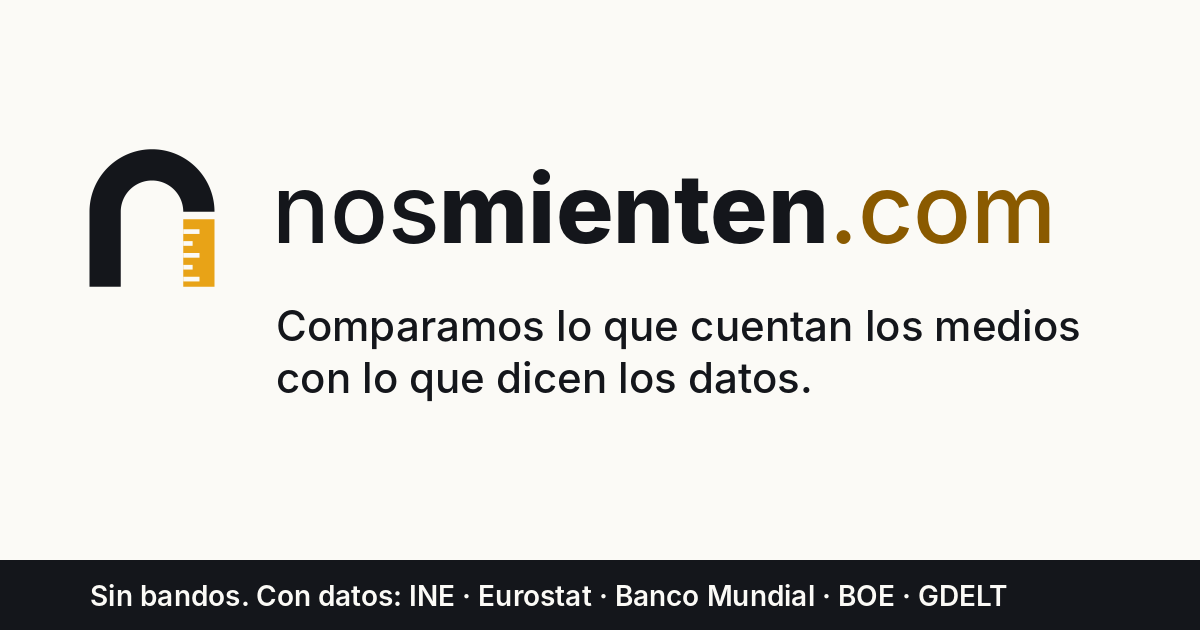
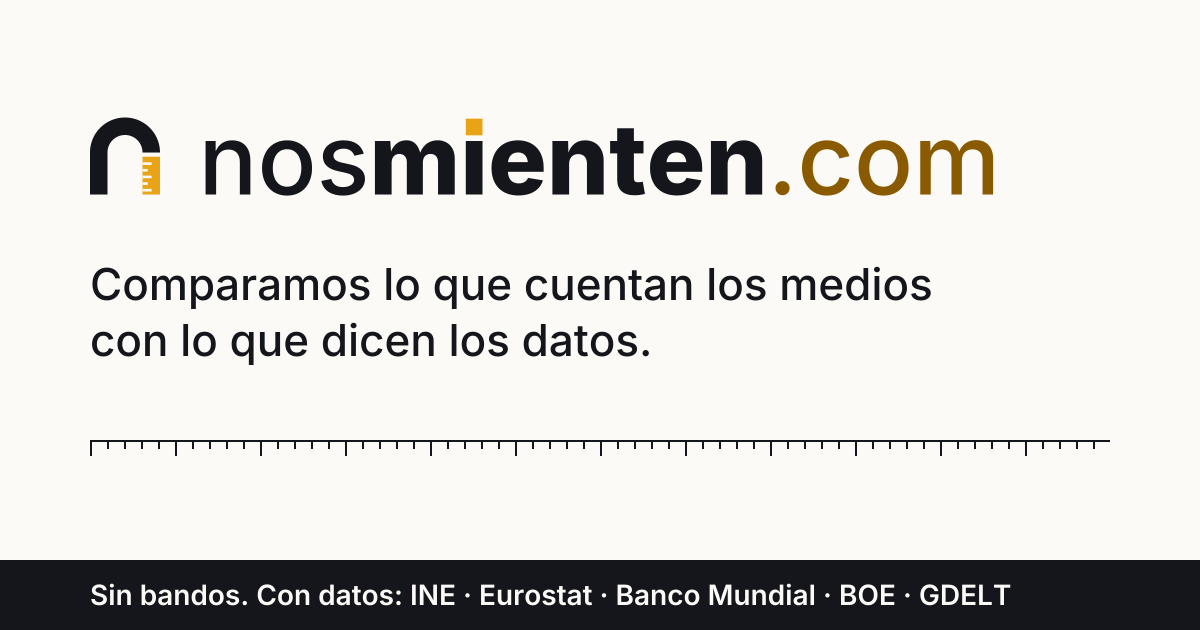
Marca v2b: punto ambar en la i y la regla como recurso grafico (ADR 0014)
Logotipo formal con el punto de la i de "mienten" hecho una marca cuadrada
ambar (SVG e imagen por historia). La regla graduada cuelga de la barra de
secciones, abre el pie y separa la banda de fuentes en las imagenes sociales.
Cabecera de perfil 1500x500. Imagen social reequilibrada.

Claude-Session: https://claude.ai/code/session_019tfotVGz2vatjyiJ7sJGne

Changed region(s): [[0.0617, 0.181, 0.8942, 0.6333], [0.0617, 0.9048, 0.8633, 0.9651], [0.0617, 0.6937, 0.925, 0.7238]]

diff --git a/truthnews/web/static/site.css b/truthnews/web/static/site.css
@@ -15,7 +15,10 @@ a { color:inherit; text-decoration:none; } a:hover { text-decoration:underline; 
 .foot-brand { display:flex; align-items:center; gap:8px; color:var(--ink); }
 /* Navegacion (Fase 8): barra de secciones fija, menu completo sin JS y pestanas inferiores en movil. */
 .skip { position:absolute; left:-999px; } .skip:focus { left:16px; top:8px; background:var(--ink); color:var(--paper); padding:6px 10px; z-index:50; }
-.sections { position:sticky; top:0; z-index:20; background:var(--paper); border-top:1px solid var(--line); border-bottom:3px solid var(--ink); box-shadow:0 3px 0 var(--brand); font:600 14px system-ui, sans-serif; text-transform:uppercase; }
+.sections { position:sticky; top:0; z-index:20; background:var(--paper); border-top:1px solid var(--line); border-bottom:2px solid var(--ink); font:600 14px system-ui, sans-serif; text-transform:uppercase; }
+/* La regla de la marca (ADR 0014): marcas cortas cada 8 px y largas cada 40, colgando del filete. */
+.sections::after, .foot::before { content:""; position:absolute; left:0; right:0; height:7px; pointer-events:none; background:repeating-linear-gradient(90deg, var(--ink) 0 1px, transparent 1px 40px) 0 0/100% 7px no-repeat, repeating-linear-gradient(90deg, var(--ink) 0 1px, transparent 1px 8px) 0 0/100% 4px no-repeat; }
+.sections::after { top:100%; }
 .sections .bar { display:flex; align-items:center; gap:12px; }
 .sections .mini img { display:block; }
 .scroller { display:flex; gap:18px; overflow-x:auto; padding:10px 0; white-space:nowrap; scrollbar-width:none; flex:1; mask-image:linear-gradient(90deg, #000 88%, transparent); -webkit-mask-image:linear-gradient(90deg, #000 88%, transparent); }
@@ -53,7 +56,7 @@ a { color:inherit; text-decoration:none; } a:hover { text-decoration:underline; 
 .table { width:100%; border-collapse:collapse; font:14px system-ui, sans-serif; } .table td, .table th { border-bottom:1px solid var(--line); padding:6px; text-align:left; }
 .empty { padding:40px 0; color:var(--muted); text-align:center; }
 .outlet-meta { color:var(--muted); font:14px system-ui, sans-serif; }
-.foot { margin-top:40px; border-top:3px double var(--ink); font:13px system-ui, sans-serif; color:var(--muted); padding:16px 0 40px; }
+.foot { position:relative; margin-top:40px; border-top:2px solid var(--ink); font:13px system-ui, sans-serif; color:var(--muted); padding:16px 0 40px; }
 @media (max-width: 760px) { .front { grid-template-columns:1fr; } .table { display:block; overflow-x:auto; } }
 .intro h1 { font-size:clamp(28px, 4vw, 40px); margin:18px 0 4px; } .intro p { color:var(--muted); margin:0 0 16px; max-width:760px; }
 .front-grid { display:grid; grid-template-columns:3fr 1fr; gap:28px; }
@@ -159,3 +162,4 @@ a { color:inherit; text-decoration:none; } a:hover { text-decoration:underline; 
   .tabbar a span { font-size:18px; line-height:1; } .tabbar a.on { color:var(--brand); }
   .stats { font-size:12px; }
 }
+.foot::before { top:0; }

diff --git a/tools/brand.py b/tools/brand.py
@@ -4,11 +4,13 @@ Uso: python tools/brand.py  (necesita fontTools, cairosvg, Pillow y la fuente In
 desarrollo). Escribe en truthnews/web/static/:
 - mark.svg: el simbolo, la "n medida" (el arco de la n baja hasta una vara graduada); favicon.svg: la
   misma n sin graduacion, sobre papel, para 16-32 px;
-- logo.svg: simbolo + "nos" (Inter Medium) + "mienten" (Inter ExtraBold) + ".com" en ambar oscuro, en
-  contornos para que no dependa de las fuentes del lector;
+- logo.svg: simbolo + "nos" (Inter Medium) + "mienten" (Inter ExtraBold, con el punto de la i hecho una
+  marca cuadrada ambar) + ".com" en ambar oscuro, en contornos para que no dependa de las fuentes;
 - favicon.ico (16/32/48), icon-180.png (apple-touch, opaco), icon-192.png, icon-512.png,
   icon-maskable-512.png (zona segura del 80 %) y avatar-400.png (foto de perfil en redes);
-- og-default.png (1200x630, imagen por defecto para redes sociales).
+- og-default.png (1200x630, imagen por defecto para redes sociales) y banner-1500x500.png (cabecera de
+  perfil), con la regla graduada como recurso grafico.
+Y anade la i sin punto (U+0131) al subconjunto Inter ExtraBold de truthnews/web/fonts/.
 """
 
 from __future__ import annotations
@@ -17,15 +19,20 @@ from io import BytesIO
 from pathlib import Path
 
 import cairosvg
+from fontTools import subset
 from fontTools.pens.svgPathPen import SVGPathPen
 from fontTools.ttLib import TTFont
-from PIL import Image, ImageDraw, ImageFont
+from PIL import Image
 
 STATIC = Path(__file__).resolve().parents[1] / "truthnews" / "web" / "static"
 INK, PAPER, AMBER, AMBER_TEXT = "#14161b", "#fbfaf6", "#e8a317", "#8a5a00"
 FONTS = Path("/usr/share/fonts/opentype/inter")
 # Graduacion de la vara: (y, largo) en la rejilla de 64; larga-corta-larga-corta-larga, como una regla.
 TICKS = ((35.6, 5.2), (39.4, 3), (43.2, 5.2), (47, 3), (50.8, 5.2))
+# Punto de la i de Inter ExtraBold sustituido por un cuadrado: (x del tallo, techo del punto, lado), en em.
+I_DOT = (115, 1585, 349)
+LEMA = ("Comparamos lo que cuentan los medios", "con lo que dicen los datos.")
+SOURCES = "INE · Eurostat · Banco Mundial · BOE · GDELT"
 
 
 def glyph(ink: str = INK, amber: str = AMBER, cut: str = PAPER, ticks: bool = True) -> str:
@@ -46,18 +53,18 @@ def svg(body: str, w: float, h: float, label: str | None = None) -> str:
     return f'<svg xmlns="http://www.w3.org/2000/svg" viewBox="0 0 {w:g} {h:g}"{a11y}{body}</svg>\n'
 
 
-def font(weight: str, size: int) -> ImageFont.FreeTypeFont:
-    return ImageFont.truetype(str(FONTS / f"Inter-{weight}.otf"), size)
-
-
-def outline(text: str, weight: str, x: float, baseline: float, size: float, fill: str) -> tuple[str, float]:
-    """Texto convertido a trazados SVG con la fuente Inter; devuelve (svg, avance en px)."""
+def outline(
+    text: str, weight: str, x: float, baseline: float, size: float, fill: str, mark_i: bool = False
+) -> tuple[str, float]:
+    """Texto convertido a trazados SVG con la fuente Inter; devuelve (svg, avance en px). Con `mark_i` (solo
+    "mienten" del logotipo) la i pierde su punto y gana una marca cuadrada ambar: la medida en el nombre."""
     f = TTFont(str(FONTS / f"Inter-{weight}.otf"))
     glyphs, cmap, hmtx = f.getGlyphSet(), f.getBestCmap(), f["hmtx"]
     scale = size / f["head"].unitsPerEm
-    parts = []
+    parts, dots = [], []
     for ch in text:
-        name = cmap[ord(ch)]
+        dotted = mark_i and ch == "i"
+        name = cmap[0x131 if dotted else ord(ch)]
         pen = SVGPathPen(glyphs)
         glyphs[name].draw(pen)
         d = pen.getCommands()
@@ -65,15 +72,21 @@ def outline(text: str, weight: str, x: float, baseline: float, size: float, fill
             parts.append(
                 f'<path transform="translate({x:.2f} {baseline}) scale({scale:.5f} {-scale:.5f})" d="{d}"/>'
             )
+        if dotted:
+            x0, top, side = I_DOT
+            dots.append(
+                f'<rect x="{x + x0 * scale:.2f}" y="{baseline - top * scale:.2f}" width="{side * scale:.2f}" '
+                f'height="{side * scale:.2f}" fill="{AMBER}"/>'
+            )
         x += hmtx[name][0] * scale
-    return f'<g fill="{fill}">{"".join(parts)}</g>', x
+    return f'<g fill="{fill}">{"".join(parts)}</g>{"".join(dots)}', x
 
 
 def logo_svg() -> str:
     """El simbolo ocupa x 12-52 de su rejilla; el nombre arranca tras un hueco y apoya en el pie de la n."""
     size, baseline = 56, 54
     a, x = outline("nos", "Medium", 62, baseline, size, INK)
-    b, x = outline("mienten", "ExtraBold", x, baseline, size, INK)
+    b, x = outline("mienten", "ExtraBold", x, baseline, size, INK, mark_i=True)
     c, x = outline(".com", "Medium", x, baseline, size, AMBER_TEXT)
     return svg(f'<g transform="translate(-12 0)">{glyph()}</g>{a}{b}{c}', round(x + 2), 64, "nosmienten.com")
 
@@ -91,29 +104,74 @@ def raster(source: str, w: int, h: int | None = None) -> Image.Image:
     return Image.open(BytesIO(raw))
 
 
-def og() -> Image.Image:
-    img = Image.new("RGB", (1200, 630), PAPER)
-    d = ImageDraw.Draw(img)
-    sym = raster(svg(glyph(), 64, 64), 200)
-    img.paste(sym, (52, 118), sym)
-    x = 272
-    nos, mienten = font("Medium", 96), font("ExtraBold", 96)
-    d.text((x, 150), "nos", font=nos, fill=INK)
-    x2 = x + d.textlength("nos", font=nos)
-    d.text((x2, 150), "mienten", font=mienten, fill=INK)
-    x3 = x2 + d.textlength("mienten", font=mienten)
-    d.text((x3, 150), ".com", font=nos, fill=AMBER_TEXT)
-    assert x3 + d.textlength(".com", font=nos) < 1140, "la marca no cabe en la imagen"
-    d.text((x + 4, 300), "Comparamos lo que cuentan los medios", font=font("Medium", 42), fill=INK)
-    d.text((x + 4, 352), "con lo que dicen los datos.", font=font("Medium", 42), fill=INK)
-    d.rectangle((0, 560, 1200, 630), fill=INK)
-    d.text(
-        (90, 578),
-        "Sin bandos. Con datos: INE · Eurostat · Banco Mundial · BOE · GDELT",
-        font=font("SemiBold", 28),
-        fill=PAPER,
+def ruler(x0: float, x1: float, y: float, step: float) -> str:
+    """Recurso grafico de la marca: una regla con marcas cortas cada `step` y largas cada cinco."""
+    marks = [f'<rect x="{x0:g}" y="{y:g}" width="{x1 - x0:g}" height="2" fill="{INK}"/>']
+    i = 0
+    while (x := x0 + i * step) <= x1 - 1:
+        tall = 14 if i % 5 == 0 else 7
+        marks.append(f'<rect x="{x:.1f}" y="{y + 2:g}" width="2" height="{tall}" fill="{INK}"/>')
+        i += 1
+    return "".join(marks)
+
+
+def logo_inner(x: float, y: float, scale: float) -> str:
+    body = logo_svg()
+    inner = body[body.index("</title>") + 8 : body.rindex("</svg>")]
+    return f'<g transform="translate({x:g} {y:g}) scale({scale:g})">{inner}</g>'
+
+
+def text(t: str, weight: str, x: float, baseline: float, size: float, fill: str) -> str:
+    return outline(t, weight, x, baseline, size, fill)[0]
+
+
+def centered(t: str, weight: str, cx: float, baseline: float, size: float, fill: str) -> str:
+    width = outline(t, weight, 0, baseline, size, fill)[1]
+    return text(t, weight, cx - width / 2, baseline, size, fill)
+
+
+def og() -> str:
+    """Imagen social por defecto: logotipo, que hacemos, la regla y la banda de tinta con las fuentes."""
+    width = float(logo_svg().split('viewBox="0 0 ')[1].split()[0])
+    assert 90 + width * 1.75 < 1110, "la marca no cabe en la imagen"
+    return svg(
+        f'<rect width="1200" height="630" fill="{PAPER}"/>'
+        + logo_inner(90, 100, 1.75)
+        + text(LEMA[0], "Medium", 90, 300, 44, INK)
+        + text(LEMA[1], "Medium", 90, 356, 44, INK)
+        + ruler(90, 1110, 440, 17)
+        + f'<rect y="560" width="1200" height="70" fill="{INK}"/>'
+        + text(f"Sin bandos. Con datos: {SOURCES}", "SemiBold", 90, 605, 28, PAPER),
+        1200,
+        630,
     )
-    return img
+
+
+def banner() -> str:
+    """Cabecera de perfil 1500x500 (X, Bluesky, LinkedIn). Las redes tapan la esquina inferior izquierda con
+    la foto: el logotipo va centrado y la regla corre por debajo de lado a lado."""
+    width = float(logo_svg().split('viewBox="0 0 ')[1].split()[0]) * 1.5
+    x = (1500 - width) / 2
+    return svg(
+        f'<rect width="1500" height="500" fill="{PAPER}"/>'
+        + logo_inner(x, 150, 1.5)
+        + centered(f"{LEMA[0]} {LEMA[1]}", "Medium", 750, 300, 30, INK)
+        + ruler(0, 1500, 380, 20),
+        1500,
+        500,
+    )
+
+
+def dotless_subset() -> None:
+    """La imagen por historia dibuja "mienten" con la i sin punto: el subconjunto necesita U+0131."""
+    fonts = STATIC.parent / "fonts"
+    path = fonts / "Inter-ExtraBold.otf"
+    chars = set(TTFont(str(path)).getBestCmap()) | {0x131}
+    sub = subset.Subsetter(subset.Options())
+    font = TTFont(str(FONTS / "Inter-ExtraBold.otf"))
+    sub.populate(unicodes=sorted(chars))
+    sub.subset(font)
+    font.save(str(path))
 
 
 def main() -> None:
@@ -128,7 +186,9 @@ def main() -> None:
     raster(icon(0.24, rounded=False), 400).save(STATIC / "avatar-400.png", optimize=True)
     frames = [raster(small, s) for s in (16, 32, 48)]
     frames[-1].save(STATIC / "favicon.ico", sizes=[(16, 16), (32, 32), (48, 48)], append_images=frames[:-1])
-    og().save(STATIC / "og-default.png", optimize=True)
+    raster(og(), 1200, 630).save(STATIC / "og-default.png", optimize=True)
+    raster(banner(), 1500, 500).save(STATIC / "banner-1500x500.png", optimize=True)
+    dotless_subset()
 
 
 if __name__ == "__main__":

diff --git a/truthnews/web/social.py b/truthnews/web/social.py
@@ -64,6 +64,27 @@ def _mark(draw: ImageDraw.ImageDraw, x: int, y: int, size: int) -> None:
         draw.rectangle(box(42, ty, 42 + w, ty + 1.5), fill=PAPER)
 
 
+def _wordmark(draw: ImageDraw.ImageDraw, x: float, baseline: float, size: int) -> None:
+    """"nos" + "mienten" + ".com" como en `logo.svg`, en papel sobre tinta: la i de "mienten" lleva una marca
+    cuadrada ambar en lugar del punto (ADR 0014)."""
+    nos, bold = _font("Medium", size), _font("ExtraBold", size)
+    draw.text((x, baseline), "nos", font=nos, fill=PAPER, anchor="ls")
+    x += draw.textlength("nos", font=nos)
+    draw.text((x, baseline), "m\u0131enten", font=bold, fill=PAPER, anchor="ls")
+    dot_x, top, side = (v * size / 2048 for v in (115, 1585, 349))
+    left = x + draw.textlength("m", font=bold) + dot_x
+    draw.rectangle((left, baseline - top, left + side, baseline - top + side), fill=AMBER)
+    x += draw.textlength("m\u0131enten", font=bold)
+    draw.text((x, baseline), ".com", font=nos, fill=AMBER, anchor="ls")
+
+
+def _ruler(draw: ImageDraw.ImageDraw, x0: int, x1: int, y: int, step: int) -> None:
+    """La regla de la marca: marcas cortas cada `step` y largas cada cinco."""
+    draw.rectangle((x0, y, x1, y + 1), fill=INK)
+    for i, x in enumerate(range(x0, x1 + 1, step)):
+        draw.rectangle((x, y + 2, x + 1, y + (13 if i % 5 == 0 else 7)), fill=INK)
+
+
 def story_image(
     title: str,
     kicker: str,
@@ -76,11 +97,7 @@ def story_image(
     d = ImageDraw.Draw(img)
     d.rectangle((0, 0, 1200, 84), fill=INK)
     _mark(d, 48, 18, 48)
-    nos, bold = _font("Medium", 34), _font("ExtraBold", 34)
-    d.text((112, 22), "nos", font=nos, fill=PAPER)
-    x = 112 + d.textlength("nos", font=nos)
-    d.text((x, 22), "mienten", font=bold, fill=PAPER)
-    d.text((x + d.textlength("mienten", font=bold), 22), ".com", font=nos, fill=AMBER)
+    _wordmark(d, 112, 54, 34)
     d.text((48, 112), kicker.upper(), font=_font("ExtraBold", 22), fill="#8a5a00")
     y = 146
     has_marks = bool(disputes or verdicts)
@@ -109,6 +126,7 @@ def story_image(
             d.rectangle((x, y, x + w, y + 22), fill=VERDICT_COLORS.get(k, MUTED))
             x += w
         y += 34
+    _ruler(d, 48, 1152, 548, 16)
     d.rectangle((0, 576, 1200, 630), fill=INK)
     d.text((48, 590), footer, font=_font("Medium", 24), fill=PAPER)
     buf = io.BytesIO()

diff --git a/tests/test_web.py b/tests/test_web.py
@@ -379,6 +379,7 @@ def test_brand_assets_and_social_meta(client):
         "/static/icon-180.png",
         "/static/icon-maskable-512.png",
         "/static/avatar-400.png",
+        "/static/banner-1500x500.png",
     ):
         assert client.get(path).status_code == 200, path
     en = client.get("/acerca?lang=en").text

diff --git a/docs/adr/0014-el-simbolo-es-la-n-medida-una-n-que-baja-hasta-una-vara-graduada.md b/docs/adr/0014-el-simbolo-es-la-n-medida-una-n-que-baja-hasta-una-vara-graduada.md
@@ -4,7 +4,8 @@
 - **Fecha:** 2026-10-19
 - **Fase:** marca v2 (peticion del usuario, fuera de las fases de la carta)
 - **Decide:** Constructor, auditado por el Critico; el usuario eligio la propuesta entre varias
-- **Revisa:** ADR 0011 (solo el simbolo; logotipo, paleta, lema e imagen social siguen igual)
+- **Revisa:** ADR 0011 (simbolo, punto de la i del logotipo y la regla como recurso grafico; paleta, lema y
+  pesos del logotipo siguen igual)
 
 ## Contexto
 El usuario pide un icono "mas identificativo, menos generico y mas profesional", "algo que podamos
@@ -29,8 +30,16 @@ El simbolo es la **"n medida"**, monograma de nosmienten:
 - **Iconos**: sobre papel (la marca vive en claro); `icon-180.png` opaco para iOS, `icon-192/512.png`,
   `icon-maskable-512.png` con zona segura (declarado `purpose: maskable` en el manifest) y
   `avatar-400.png` para la foto de perfil en redes, que se recorta en circulo.
-- Sin cambios: logotipo "nos" Medium + "mienten" ExtraBold + ".com" en ambar oscuro, paleta tinta /
-  papel / ambar, lema "Sin bandos. Con datos." e imagen social por defecto.
+- **Mezcla final** (el usuario: "mezcla todo y arregla lo que falle"): el logotipo formal se mantiene
+  ("nos" Medium + "mienten" ExtraBold + ".com" en ambar oscuro), pero el punto de la i de "mienten" es una
+  **marca cuadrada ambar**, la medida dentro del nombre. Se aplica igual en `logo.svg` (contornos) y en la
+  imagen por historia (Pillow, con la i sin punto U+0131 anadida al subconjunto ExtraBold).
+- **La regla graduada** (marcas cortas y largas cada cinco) es el recurso grafico de la marca: cuelga del
+  filete de la barra de secciones y abre el pie de la web (CSS, sin imagenes), separa el contenido de la
+  banda de fuentes en `og-default.png` y en la imagen por historia, y corre bajo el logotipo en
+  `banner-1500x500.png` (cabecera de perfil, contenido centrado porque las redes tapan la esquina
+  inferior izquierda con la foto).
+- Sin cambios: paleta tinta / papel / ambar, lema "Sin bandos. Con datos.", banda de tinta con las fuentes.
 
 ## Alternativas consideradas
 | Alternativa | Por que no |
@@ -38,7 +47,7 @@ El simbolo es la **"n medida"**, monograma de nosmienten:
 | Mantener las dos barras (ADR 0011) | Se leia como icono generico de texto o menu; nada propio que registrar |
 | Nivel de burbuja (burbuja centrada: "sin inclinacion") | Buena idea de neutralidad, pero es un icono de herramienta comun, poco distintivo |
 | Lupa o marca de verificacion | Iconografia de todos los verificadores (ya descartada en el ADR 0011) |
-| Rediseno completo (punto de la i ambar, regla como recurso grafico, nombre en un solo peso) | Probado y descartado por el usuario: "el resto dejalo como estaba, que era mas formal" |
+| Rediseno completo en modo claro (nombre en un solo peso, sin banda de tinta) | Probado; el usuario prefirio los pesos y la banda formales y pidio mezclar solo el punto ambar y la regla |
 
 ## Consecuencias
 Signo figurativo propio, ligado al nombre (la n) y a la tesis del medio (medir lo que se cuenta),

diff --git a/PENDIENTES.truth-news.md b/PENDIENTES.truth-news.md
@@ -26,6 +26,7 @@ Reglas de edicion (resumen; la version completa esta en la skill):
 
 ## Activo
 
+- [ ] Marca v2b: mezclar el simbolo con el logotipo formal, punto ambar en la i y la regla como recurso grafico en web e imagenes sociales; arreglar lo que falle (peticion del usuario 2026-10-19: "mezcla todo y arregla lo que falle") — EN CURSO (session_019tfotVGz2vatjyiJ7sJGne, 2026-10-19)
 - [ ] Hilo y consecuencias: archivo historico (GDELT, hemerotecas y sitemaps de los medios, anos atras) cruzado con la actualidad; linea temporal por tema (que se decia, que paso, que hubo por el camino, quien dijo que, que vino despues); conexiones entre hechos aparentemente sueltos con su evidencia (p. ej. Ceuta, presion diplomatica de Marruecos, EEUU/OTAN y Espana); analisis profundo con IA sin dar nada por sentado; en portada lo que ocurre ahora con su porque y su antes/despues (peticion del usuario 2026-10-19) — EN CURSO (session_012mRsejPRjvr7vC2Aq3edZ4, 2026-10-19)
   - [x] ADR 0013 y migracion 0006 (tabla thread); conectores de hemeroteca GDELT (artlist por periodo) y Wikipedia
   - [x] Constructor de hilos: plan con hipotesis, corpus citado (S/G/W), cronologia, quien dijo que, conexiones con solidez, control de fundamento
